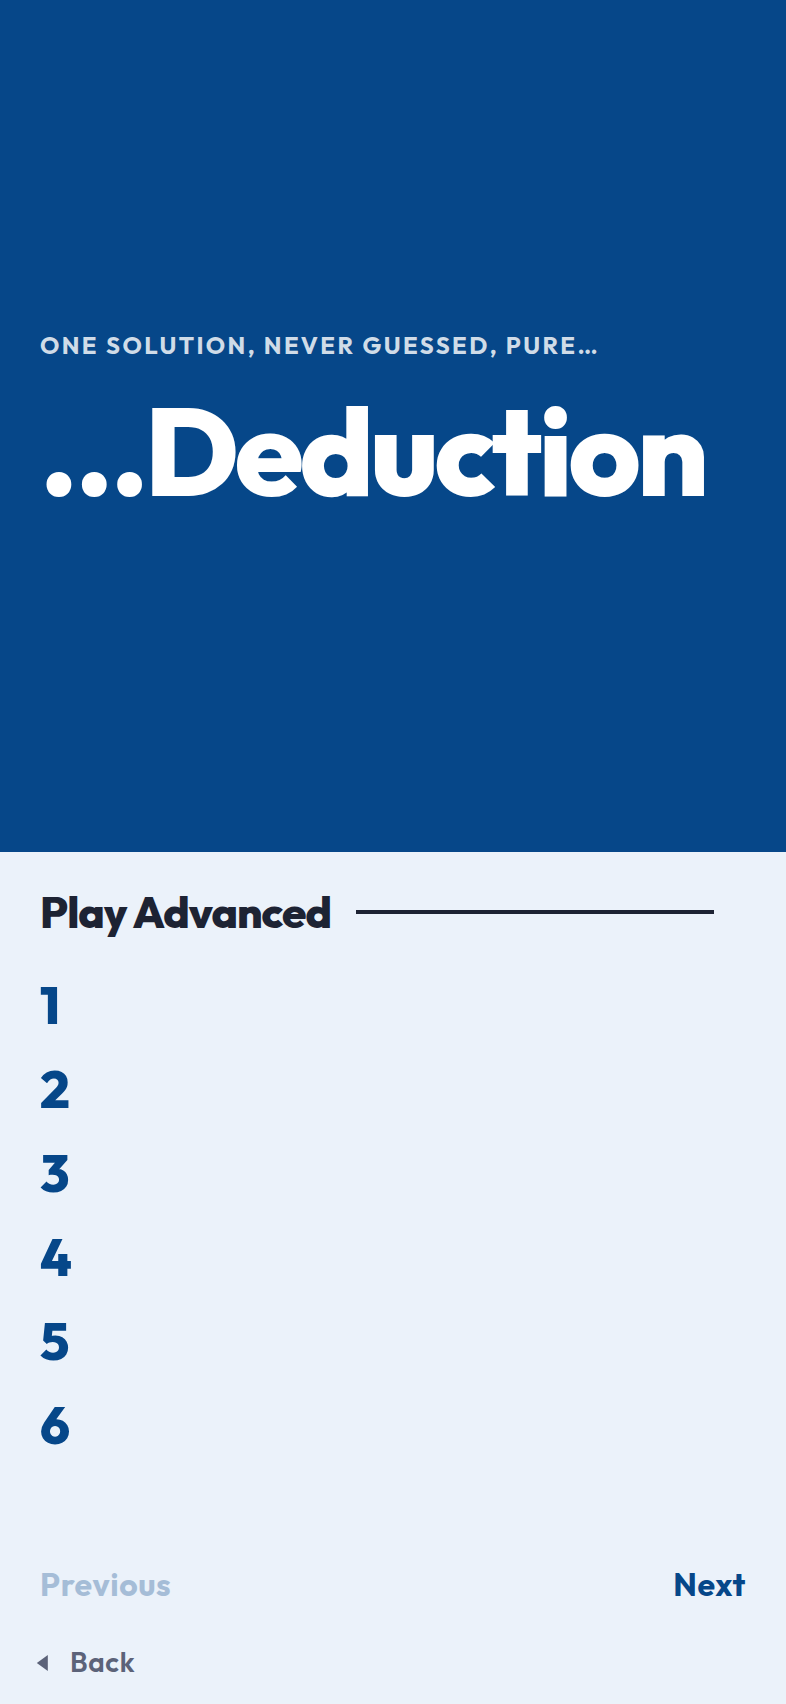
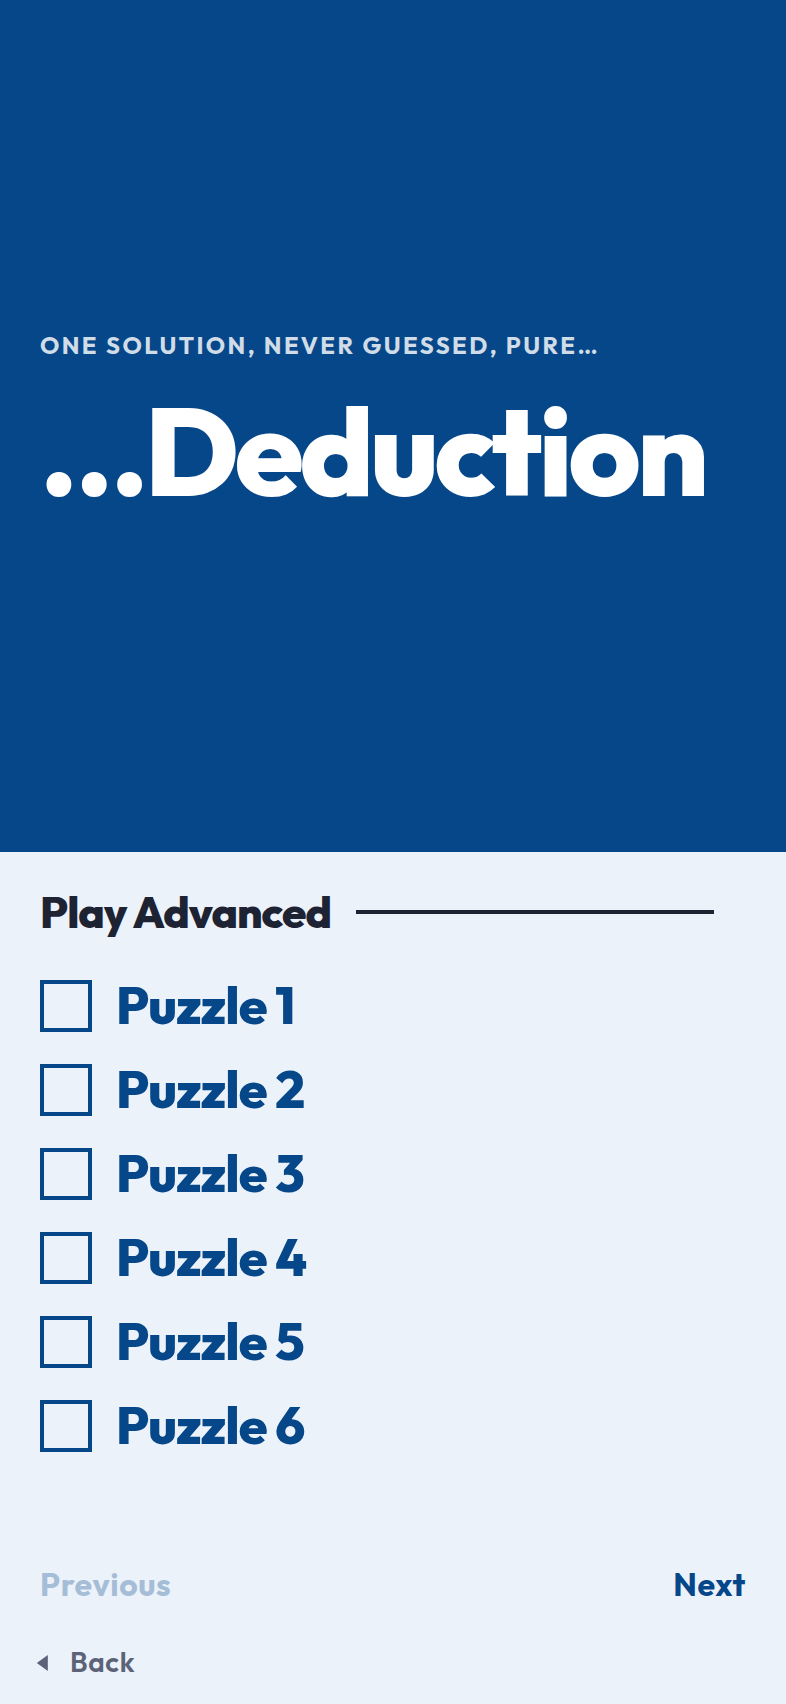
Name the puzzles and box them
A row was a bare number, which read as a position in a list rather than
as a thing to play. It is "Puzzle 7" now, with a box on its left: empty
until the puzzle is finished, then ticked.

The box is drawn the way the settings screen draws a checkbox, because
that is what it is, and it is the one thing on the row readable at a
glance down a column — six of them say how far through a difficulty you
are without reading a word. The time stays on the right for the ones that
have one, and the label between them takes the room, so every time on a
page lines up on the same edge whatever the numbers run to.

A screen reader hears the row as a checkbox too, checked or not, rather
than being told about a square it cannot see.

Claude-Session: https://claude.ai/code/session_01RrDehsX5bvPAsFa5dYERaj

Changed region(s): [[0.1527, 0.5599, 0.3969, 0.7465], [0.0305, 0.5599, 0.1221, 0.8709], [0.1527, 0.7776, 0.3969, 0.8709]]

diff --git a/src/screens/NumbersScreen.tsx b/src/screens/NumbersScreen.tsx
@@ -31,9 +31,12 @@ interface Props {
  * or next. That turns a wall of random games into something with an order to
  * work through, and gives two players something to compare.
  *
- * A game already finished carries its time on the right of its number. That is
- * the whole of the record kept here — no ticks, no stars — because a time is
- * both the fact that it is done and a thing to beat.
+ * Every puzzle carries a box on the left, empty until it is finished and then
+ * ticked, and a finished one carries its time on the right as well. The box is
+ * the one thing readable at a glance down a column — a row of them says how far
+ * through a difficulty you are without reading a word — and the time beside it
+ * is the thing to beat. They are drawn the way the settings screen draws a
+ * checkbox, because that is what they are.
  *
  * It wears the same panel the front door and the difficulties do, given the
  * same half of the screen, so walking Play → a difficulty → a number changes
@@ -69,11 +72,12 @@ export function NumbersScreen({ size, busy, history, onPlay, onBack }: Props) {
                 <Pressable
                   key={number}
                   accessibilityRole="button"
-                  accessibilityLabel={`Game ${number}`}
+                  accessibilityLabel={`Puzzle ${number}`}
+                  // A screen reader hears the box as the state it stands for.
+                  accessibilityState={{ checked: Boolean(game), disabled: busy }}
                   accessibilityHint={
-                    game ? `Finished in ${formatDuration(game.seconds)}` : `${size.label}`
+                    game ? `Finished in ${formatDuration(game.seconds)}` : size.label
                   }
-                  accessibilityState={{ disabled: busy }}
                   disabled={busy}
                   onPress={() => {
                     feedback.tap();
@@ -81,7 +85,18 @@ export function NumbersScreen({ size, busy, history, onPlay, onBack }: Props) {
                   }}
                   style={({ pressed }) => [styles.row, { opacity: busy ? 0.4 : pressed ? 0.6 : 1 }]}
                 >
-                  <Text style={[styles.number, { color: palette.accent }]}>{number}</Text>
+                  <View
+                    style={[
+                      styles.box,
+                      {
+                        borderColor: palette.accent,
+                        backgroundColor: game ? palette.accent : 'transparent',
+                      },
+                    ]}
+                  >
+                    {game ? <Text style={[styles.tick, { color: palette.bg }]}>✓</Text> : null}
+                  </View>
+                  <Text style={[styles.number, { color: palette.accent }]}>Puzzle {number}</Text>
                   {game ? <Text style={styles.time}>{formatDuration(game.seconds)}</Text> : null}
                 </Pressable>
               );
@@ -172,10 +187,25 @@ const makeStyles = (palette: Palette) =>
     row: {
       flexDirection: 'row',
       alignItems: 'center',
-      justifyContent: 'space-between',
+      gap: space(3),
       paddingVertical: space(1),
     },
+    box: {
+      width: 26,
+      height: 26,
+      borderWidth: 2,
+      alignItems: 'center',
+      justifyContent: 'center',
+    },
+    tick: {
+      fontSize: 15,
+      fontWeight: '800',
+      lineHeight: 18,
+    },
     number: {
+      // Takes the room between the box and the time, so every time on the page
+      // lines up on the right-hand edge whatever the numbers beside them run to.
+      flex: 1,
       fontSize: 26,
       lineHeight: 34,
       fontWeight: '800',

diff --git a/README.md b/README.md
@@ -166,7 +166,7 @@ images in the same commit.
 
 | | | |
 |---|---|---|
-| <img src="docs/screenshots/01-start.png" width="230" alt="Start page"><br>**1. Start** — the name on a panel of the link colour, **Daily** and **Play** under it with a rule between, and the two side doors at the foot. | <img src="docs/screenshots/02-setup.png" width="230" alt="The difficulties"><br>**2. Difficulty** — the same panel, the same half; only what is under it changes. | <img src="docs/screenshots/03-numbers.png" width="230" alt="The numbered games"><br>**3. Numbered games** — every game at that difficulty, counting from one, six to a page, with your time beside the ones you have finished. |
+| <img src="docs/screenshots/01-start.png" width="230" alt="Start page"><br>**1. Start** — the name on a panel of the link colour, **Daily** and **Play** under it with a rule between, and the two side doors at the foot. | <img src="docs/screenshots/02-setup.png" width="230" alt="The difficulties"><br>**2. Difficulty** — the same panel, the same half; only what is under it changes. | <img src="docs/screenshots/03-numbers.png" width="230" alt="The numbered games"><br>**3. Numbered puzzles** — every puzzle at that difficulty, counting from one, six to a page, each with a box that ticks when you finish it and your time beside it. |
 | <img src="docs/screenshots/04-daily.png" width="230" alt="Daily challenges"><br>**4. Daily** — today's four, one per difficulty. A finished one shows its time and opens the result instead of a board. | <img src="docs/screenshots/05-settings.png" width="230" alt="Settings screen"><br>**5. Settings** — seven names with a box or a slider against each, and nothing to read. | <img src="docs/screenshots/06-board.png" width="230" alt="The board"><br>**6. Grid** — a 4 × 4 puzzle as a 3 × 3 staircase of six grids, sized to fit the screen. |
 | <img src="docs/screenshots/07-menu.png" width="230" alt="Game menu"><br>**7. Puzzle settings** — behind the burger: the board pair and the colour, set the way the settings screen sets them, then starting this one over. | <img src="docs/screenshots/08-clue.png" width="230" alt="A clue on the table"><br>**8. Clue** — one clue at a time, under the board, lit up on the grids it talks about. | <img src="docs/screenshots/09-stuck.png" width="230" alt="A board that can no longer be solved"><br>**9. Out of reach** — the clue button checks the board first, and stops with a window offering to rewind when the answer has been marked away. |
 | <img src="docs/screenshots/10-item-card.png" width="230" alt="The card behind an item's picture"><br>**10. Item card** — tap any picture on the board to meet it: an icon, a line about it, and the traits clues describe it by. | <img src="docs/screenshots/11-solved.png" width="230" alt="A finished game"><br>**11. Solved** — the finish takes the screen: time, clues read, how it compares, the answer table. | <img src="docs/screenshots/12-statistics.png" width="230" alt="Statistics screen"><br>**12. Statistics** — totals, bests by difficulty and the trend of recent solve times. |
@@ -210,9 +210,12 @@ rest is the app behaving normally.
    answer and the same clues on anybody's phone, this year or next. Pick one and
    it starts — that number becomes the seed. The list is paged rather than
    scrolled, six to a page — which is what the half of the screen under the
-   panel holds — with **Previous** and **Next** under it;
-   a game you have already finished carries its time on the right of its number,
-   which is both the fact that it is done and something to beat. Starting any
+   panel holds — with **Previous** and **Next** under it. Every row is
+   **Puzzle 7** with a box on its left, empty until you finish it and then
+   ticked, drawn the way the settings screen draws a checkbox because that is
+   what it is: a column of them says how far through a difficulty you are
+   without reading a word. A finished one carries its time on the right as well,
+   which is the thing to beat. Starting any
    game replaces the one saved in progress, which is the only way to throw one
    away, since choosing what to play instead is the same decision.
 4. **Daily** is the other way in, under the same panel: today's four
